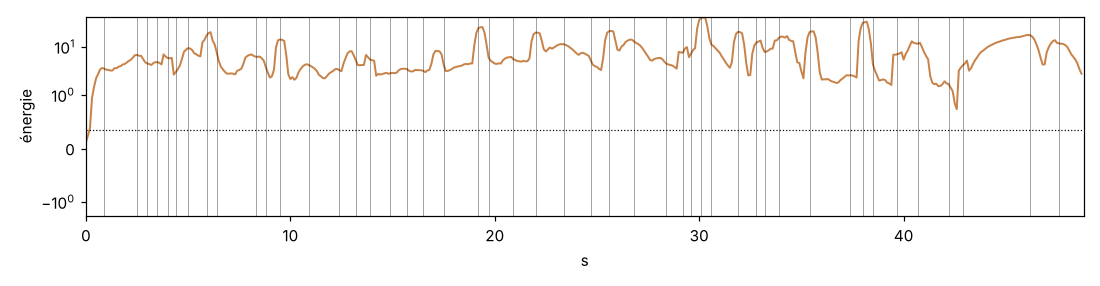
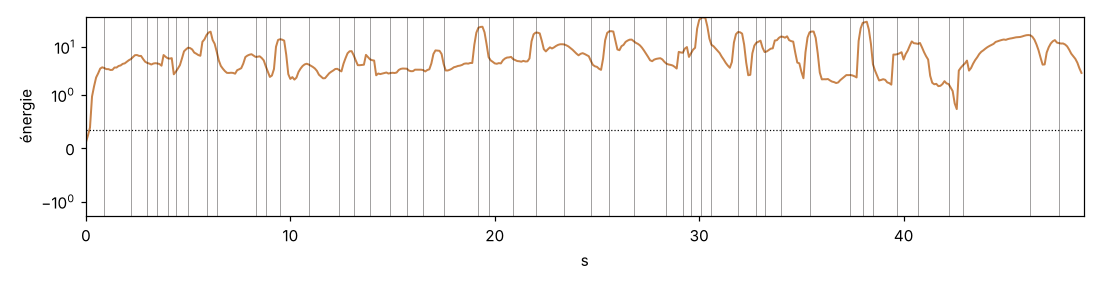
Moteur : la caméra à l'épaule ne découvre plus jamais de bord (zoom de couverture, P-033)
Claude-Session: https://claude.ai/code/session_01AdSeFqikVTnEaH1LavGi44

diff --git a/reel/moteur.html b/reel/moteur.html
@@ -628,7 +628,9 @@ window.rendre = async (t) => {
     const hr = main * .22 * bruit(t * .4, 5);
     // coup de zoom sur les mots forts (reel.punch) : arrive en ~60 ms, se relâche en ~0,5 s
     let pz = 0; for (const tp of R.punch ?? []) { const u = t - tp; if (u >= 0 && u < 1.2) pz += .055 * (1 - Math.exp(-u / .03)) * Math.exp(-u / .32); }
-    cam.style.transform = `translate(${sx + hx}px, ${sy + hy - 18 * E.doux(p)}px) rotate(${hr}deg) scale(${1 + (sc.poussee ?? .045) * E.doux(p) + pz})`;
+    // jamais de bord découvert (P-033) : le zoom couvre toujours le décalage et la rotation de la caméra
+    const dx = sx + hx, dy = sy + hy - 18 * E.doux(p), couvre = 1 + 2 * Math.max(Math.abs(dx) / 1080, Math.abs(dy) / 1920) + Math.abs(hr) * .035 + .002;
+    cam.style.transform = `translate(${dx}px, ${dy}px) rotate(${hr}deg) scale(${(1 + (sc.poussee ?? .045) * E.doux(p) + pz) * couvre})`;
     T[sc.type].animer(el, sc, t, ctx);
   });
   // clips : attendre que l'image du moment soit décodée
